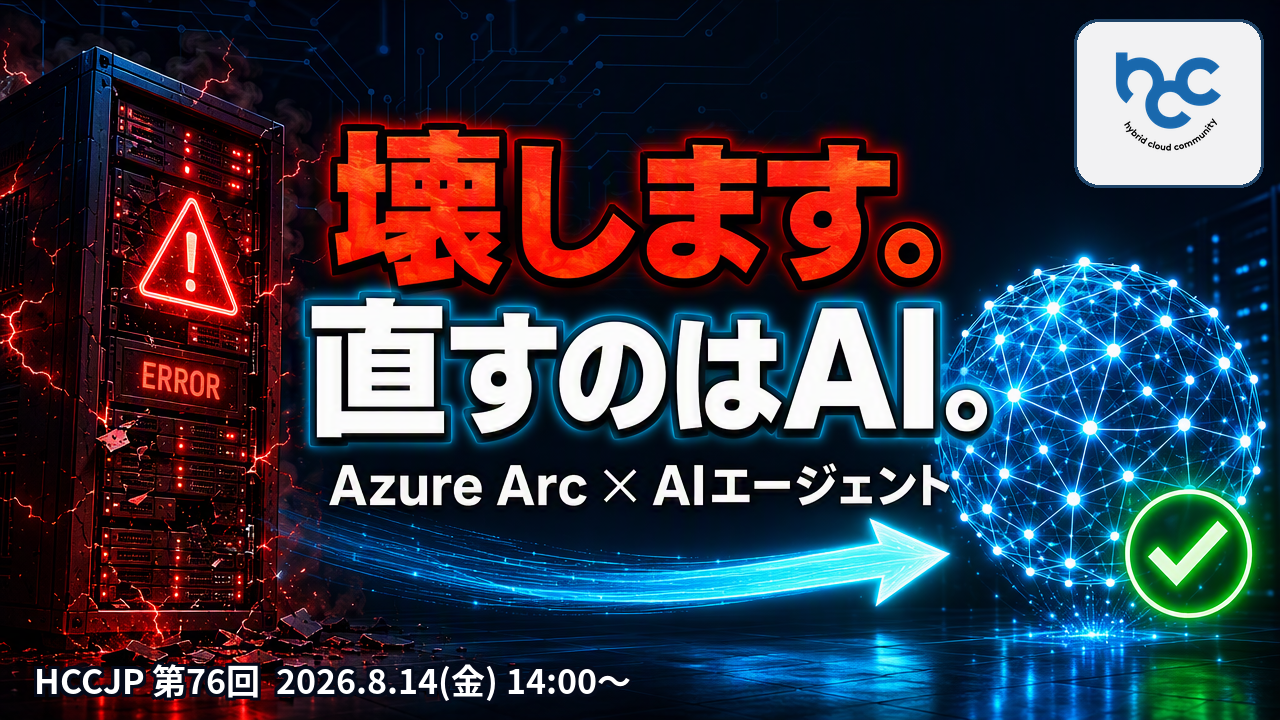
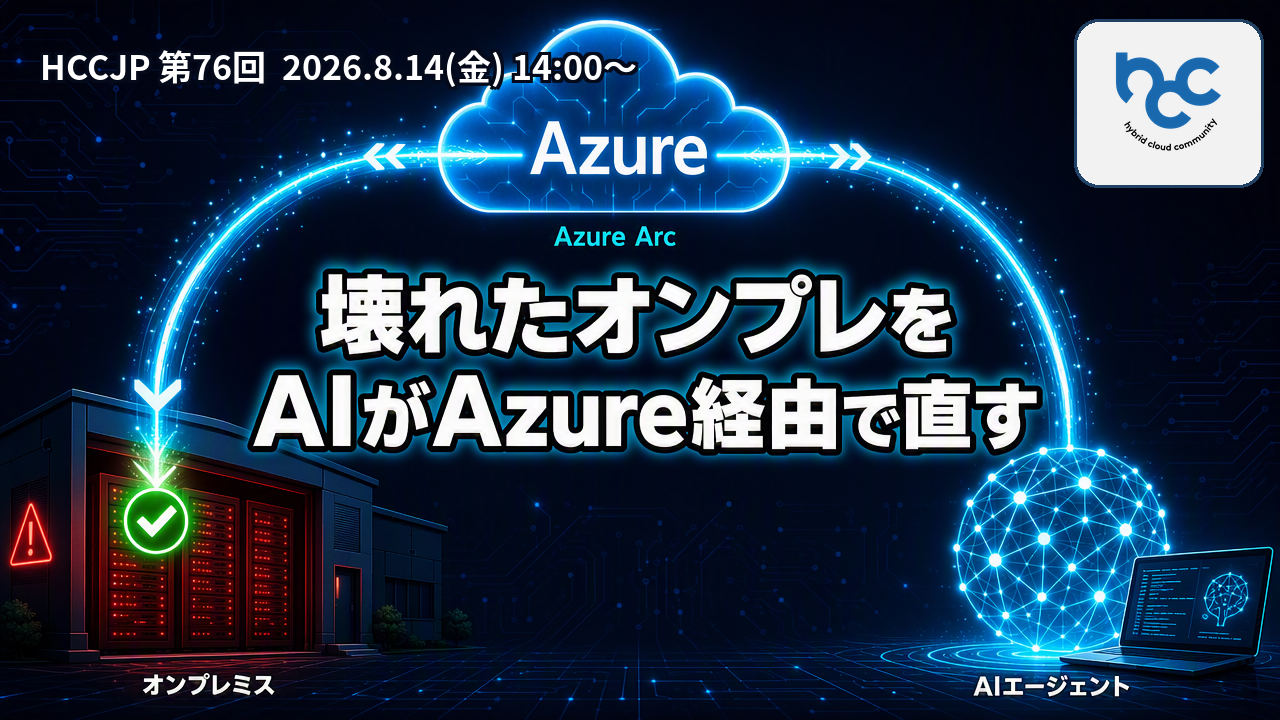
feat: redesign HCCJP76 thumbnail to show the on-prem -> Azure -> AI route

diff --git a/HCCJP_76/make_thumbnail.py b/HCCJP_76/make_thumbnail.py
@@ -61,10 +61,10 @@ def build() -> Image.Image:
     composed = Image.alpha_composite(base, badge)
     composed.alpha_composite(logo, pos)
 
-    # 開催日は縁取りして、背景の明暗にかかわらず読めるようにする
+    # 開催日は左上へ。下辺には「オンプレミス」「AIエージェント」のラベルがあるため重ねない
     draw = ImageDraw.Draw(composed)
     font = _bold_jp_font(DATE_FONT_SIZE)
-    x, y = 34, height - 66
+    x, y = 40, 40
     for dx in (-3, 0, 3):
         for dy in (-3, 0, 3):
             draw.text((x + dx, y + dy), DATE_TEXT, font=font, fill=(4, 10, 26, 255))
